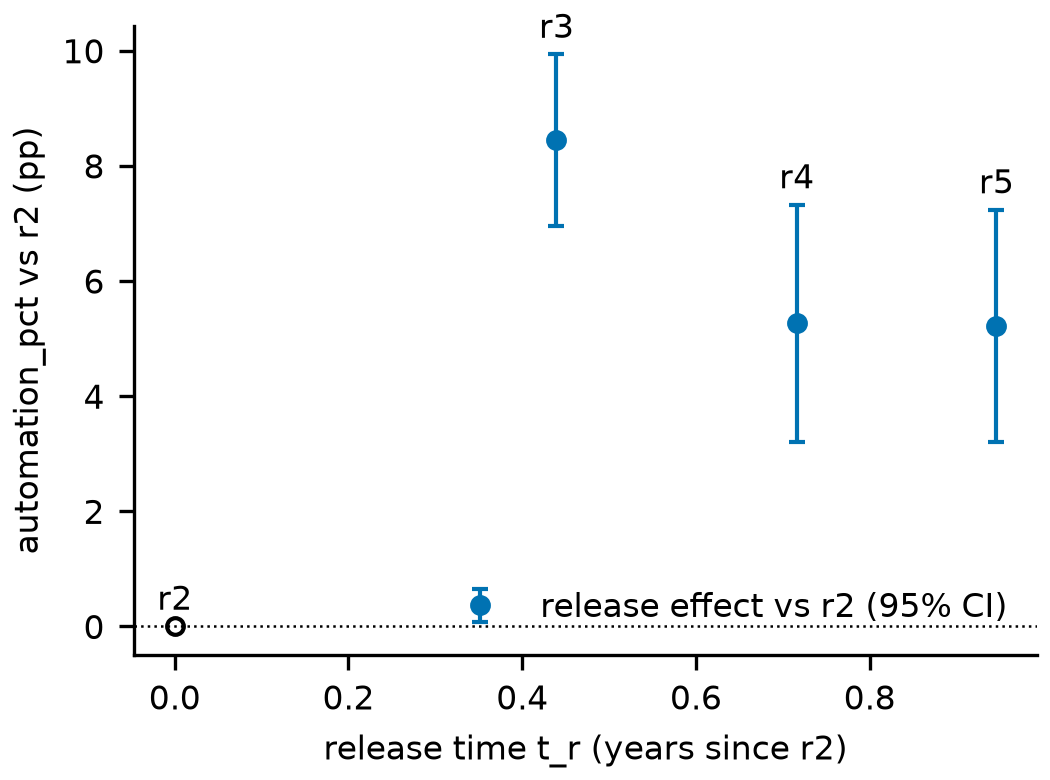
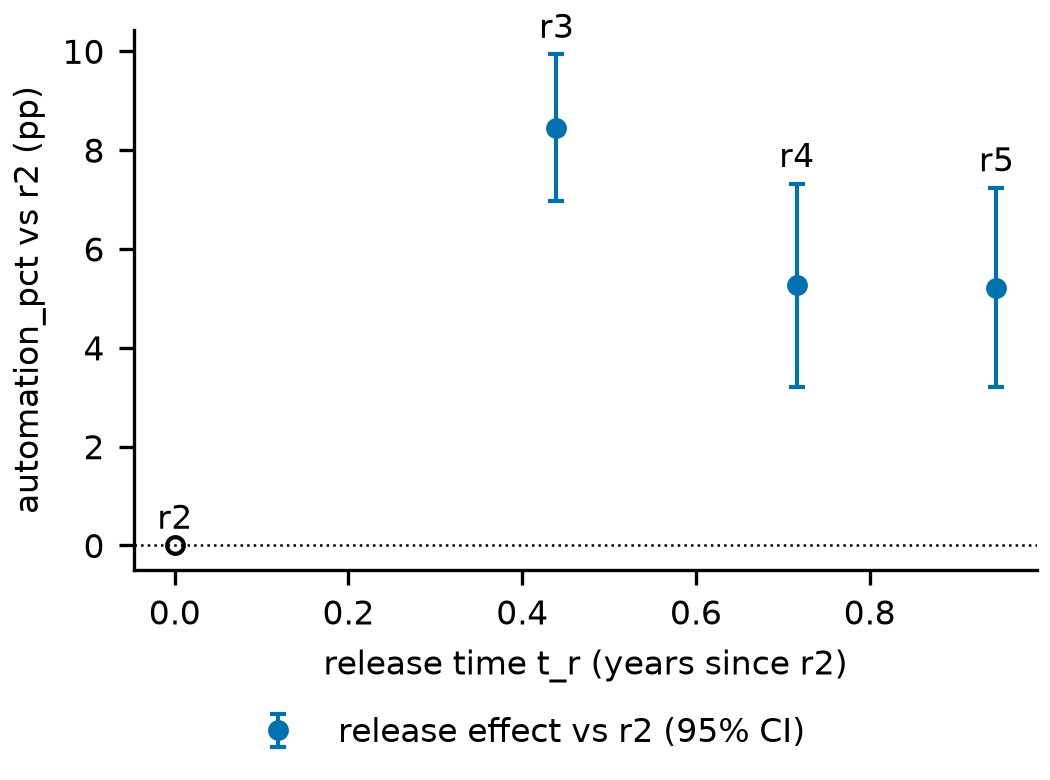
feat(results): every RQ1 coefficient carries its unit; controls carry no decision
A units map keyed by coefficient name (PAP §4 units for H1-H3; per log point and pp per pp for
H4, where the PAP states none) feeds a unit column in confirmatory_table and a Units line per
hypothesis in decisions.md, replacing the hand-typed H2 unit sentence. The H4 mix control's
family p, level and status are blank. The H2 release-effects legend moves below the axis.

diff --git a/src/aideleg/results/rq1.py b/src/aideleg/results/rq1.py
@@ -42,10 +42,26 @@ TABLE_CSV, TABLE_MD = "confirmatory_table.csv", "confirmatory_table.md"
 DECISIONS_MD = "decisions.md"
 FIG_COEFS, FIG_H2 = "fig_rq1_coefficients", "fig_rq1_h2_release_effects"
 H2_STATEMENT = "measured within-task automation rises across releases"
-TABLE_COLUMNS = ("hypothesis", "coefficient", "tested", "estimate", "se", "ci_low", "ci_high",
-                 "p", "df", "p_family", "holm_level", "status", "p13_attenuation")
+TABLE_COLUMNS = ("hypothesis", "coefficient", "tested", "unit", "estimate", "se", "ci_low",
+                 "ci_high", "p", "df", "p_family", "holm_level", "status", "p13_attenuation")
+# the unit of each coefficient's estimate. H1, H2 and H3 are the PAP's own (§4); the PAP states
+# none for H4, so its two log regressors are read per log point and the mix control per pp.
+UNITS = {
+    "human_education_years_mean": "pp of automation per year of education",
+    "log_wage": "pp of automation per log point of wage",
+    "trend": "pp per year",
+    "error_cost": "pp of validation share",
+    "log_aui": "pp of automation per log point",
+    "log_income": "pp of automation per log point",
+    "mix": "pp per pp",
+}
 # the coefficients the P13 attenuation factor sits beside (PAP §4.1)
 _ATTENUATION_LABEL = {("H1", "log_wage"): "β_w", ("H3", "error_cost"): "γ"}
+
+
+def unit_of(name: str) -> str:
+    """The unit of coefficient `name`; a coefficient without a unit is an error, not a blank."""
+    return UNITS[name]
 
 
 def _tested(res: dict, h: str) -> list[str]:
@@ -59,16 +75,20 @@ def table_rows(data: dict) -> pl.DataFrame:
         res, dec = data["results"][h], data["decisions"][h]
         tested = _tested(res, h)
         for c in res["coefs"].values():
+            is_tested = c["name"] in tested
             rows.append({
-                "hypothesis": h, "coefficient": c["name"], "tested": c["name"] in tested,
+                "hypothesis": h, "coefficient": c["name"], "tested": is_tested,
+                "unit": unit_of(c["name"]),
                 "estimate": c["estimate"], "se": c["se"], "ci_low": c["ci_low"],
                 "ci_high": c["ci_high"], "p": c["p"], "df": c["df"],
-                "p_family": res["p_family"], "holm_level": dec["level"],
-                "status": dec["status"],
+                # a control is not tested: its row carries no decision
+                "p_family": res["p_family"] if is_tested else None,
+                "holm_level": dec["level"] if is_tested else None,
+                "status": dec["status"] if is_tested else None,
                 "p13_attenuation": res["diagnostics"].get(f"attenuation_{c['name']}"),
             })
     schema = {"hypothesis": pl.String, "coefficient": pl.String, "tested": pl.Boolean,
-              "estimate": pl.Float64, "se": pl.Float64, "ci_low": pl.Float64,
+              "unit": pl.String, "estimate": pl.Float64, "se": pl.Float64, "ci_low": pl.Float64,
               "ci_high": pl.Float64, "p": pl.Float64, "df": pl.Int64, "p_family": pl.Float64,
               "holm_level": pl.Float64, "status": pl.String, "p13_attenuation": pl.Float64}
     return pl.DataFrame(rows, schema=schema).select(TABLE_COLUMNS)
@@ -80,21 +100,22 @@ def _num(x: float | None) -> str:
     return f"{x:.2e}" if x != 0 and abs(x) < 1e-4 else f"{x:.4f}"
 
 
-def _level(x: float) -> str:
-    return f"{x:g}"
+def _level(x: float | None) -> str:
+    return "—" if x is None else f"{x:g}"
 
 
 def _table_md(df: pl.DataFrame) -> str:
-    head = ("| hypothesis | coefficient | tested | estimate | SE | 95% CI | p | df | family p "
-            "| level | status | P13 attenuation |")
-    out = [head, "|" + "---|" * 12]
+    head = ("| hypothesis | coefficient | tested | unit | estimate | SE | 95% CI | p | df "
+            "| family p | level | status | P13 attenuation |")
+    out = [head, "|" + "---|" * 13]
     for r in df.iter_rows(named=True):
         df_cell = "normal" if r["df"] is None else str(r["df"])
         out.append(
             f"| {r['hypothesis']} | {r['coefficient']} | {'yes' if r['tested'] else 'control'} "
-            f"| {_num(r['estimate'])} | {_num(r['se'])} | [{_num(r['ci_low'])}, "
+            f"| {r['unit']} | {_num(r['estimate'])} | {_num(r['se'])} | [{_num(r['ci_low'])}, "
             f"{_num(r['ci_high'])}] | {_num(r['p'])} | {df_cell} | {_num(r['p_family'])} "
-            f"| {_level(r['holm_level'])} | {r['status']} | {_num(r['p13_attenuation'])} |")
+            f"| {_level(r['holm_level'])} | {r['status'] or '—'} "
+            f"| {_num(r['p13_attenuation'])} |")
     return "\n".join(out)
 
 
@@ -104,8 +125,9 @@ def _table_doc(data: dict, df: pl.DataFrame, path: Path) -> Path:
         "its format (PAP §0.2); there are no stars, and every test is two-sided.",
         "- `family p` is the hypothesis's single p-value (D17); `level` is the level that p was "
         "compared with: the Holm step level for H1, H3 and H4, and the stand-alone α for H2.",
-        "- `status` is the decision of the hypothesis the row belongs to; `control` rows are "
-        "not tested.",
+        "- `status` is the decision of the hypothesis the row belongs to. `control` rows are "
+        "not tested, so their family p, level and status are blank (—).",
+        "- `unit` is the unit of the estimate, its SE and its CI; pp = percentage points.",
         "- `df`: the t reference degrees of freedom; `normal` marks a normal reference.",
         "- P13 attenuation: the between-task share of the regressor's identifying "
         "(within-IWA, FWL-residualised) variation, beside β_w (H1, log_wage) and γ (H3, "
@@ -127,6 +149,7 @@ def _decision_section(data: dict, h: str) -> str:
     res, dec = data["results"][h], data["decisions"][h]
     lines = [dec["text"], "",
              f"- Outcome: `{res['outcome']}`; tested: {', '.join(_tested(res, h))}.",
+             "- Units: " + "; ".join(f"{n}: {unit_of(n)}" for n in res["coefs"]) + ".",
              f"- Status: `{dec['status']}`; its p was compared with level {_level(dec['level'])}."]
     for (hh, coef), label in _ATTENUATION_LABEL.items():
         if hh == h:
@@ -137,9 +160,7 @@ def _decision_section(data: dict, h: str) -> str:
     if h == "H2":
         d = res["diagnostics"]
         lines += [
-            f"- H2 is worded as \"{H2_STATEMENT}\" (D22); β is the change in measured "
-            "within-task automation per year of release time, which includes any change in "
-            "the classifier and in platform scope.",
+            f"- H2 is worded as \"{H2_STATEMENT}\" (D22).",
             f"- Release-level wild bootstrap p = {_num(d['p_wild'])} over {d['n_wild_draws']} "
             "Webb vectors (D22 co-condition).",
             f"- Release-label randomisation p = {_num(d['p_release_label'])} over "
@@ -229,7 +250,7 @@ def fig_h2_release_effects(data: dict):
     ax.axhline(0.0, color=PALETTE[0], linewidth=0.6, linestyle=":")
     ax.set_xlabel("release time t_r (years since r2)")
     ax.set_ylabel(f"{res['outcome']} vs r2 (pp)")
-    ax.legend(frameon=False, loc="lower right")
+    fig.legend(frameon=False, loc="outside lower center")  # below the axis, off the zero line
     return fig
 
 

diff --git a/tests/results/test_rq1_report.py b/tests/results/test_rq1_report.py
@@ -52,9 +52,13 @@ def test_table_numbers_equal_json(json_path, report):
         c = res["coefs"][r["coefficient"]]
         for key in ("estimate", "se", "ci_low", "ci_high", "p"):
             assert float(r[key]) == c[key], (r["coefficient"], key)
-        assert float(r["p_family"]) == res["p_family"]
-        assert float(r["holm_level"]) == data["decisions"][r["hypothesis"]]["level"]
-        assert r["status"] == data["decisions"][r["hypothesis"]]["status"]
+        if r["tested"] == "true":
+            assert float(r["p_family"]) == res["p_family"]
+            assert float(r["holm_level"]) == data["decisions"][r["hypothesis"]]["level"]
+            assert r["status"] == data["decisions"][r["hypothesis"]]["status"]
+        else:  # a control is not tested: no status, level or family p beside it
+            assert (r["p_family"], r["holm_level"], r["status"]) == ("", "", "")
+        assert r["unit"] == rq1.UNITS[r["coefficient"]]
         assert r["df"] == ("" if c["df"] is None else str(c["df"]))
     md = (out / "confirmatory_table.md").read_text(encoding="utf-8")
     assert md.count(data["alpha"]["statement"]) == 1
@@ -111,3 +115,47 @@ def test_figures_written(report):
         for ext in ("pdf", "png"):
             assert (figs / f"{name}.{ext}").is_file()
             assert figs / f"{name}.{ext}" in paths
+
+
+def test_units_and_blank_controls_in_the_markdown(json_path, report):
+    out, _, _ = report
+    assert rq1.UNITS == {
+        "human_education_years_mean": "pp of automation per year of education",
+        "log_wage": "pp of automation per log point of wage",
+        "trend": "pp per year",
+        "error_cost": "pp of validation share",
+        "log_aui": "pp of automation per log point",
+        "log_income": "pp of automation per log point",
+        "mix": "pp per pp",
+    }
+    md = (out / "confirmatory_table.md").read_text(encoding="utf-8")
+    rows = [ln for ln in md.splitlines() if ln.startswith("| H")]
+    for ln in rows:
+        name = ln.split("|")[2].strip()
+        assert f"| {rq1.UNITS[name]} |" in ln
+    mix = next(ln for ln in rows if ln.split("|")[2].strip() == "mix")
+    cells = [c.strip() for c in mix.split("|")]
+    assert "control" in cells and "supported" not in mix and "not_rejected" not in mix
+    dec = (out / "decisions.md").read_text(encoding="utf-8")
+    for name, unit in rq1.UNITS.items():
+        assert f"{name}: {unit}" in dec
+    # the hand-typed unit sentence is gone; the run's own H2 note still carries its wording
+    assert "per year of release time" not in dec
+
+
+def test_unit_missing_raises():
+    with pytest.raises(KeyError):
+        rq1.unit_of("not_a_coefficient")
+
+
+def test_h2_legend_sits_below_the_axes(json_path):
+    data = json.loads(json_path.read_text(encoding="utf-8"))
+    fig = rq1.fig_h2_release_effects(data)
+    fig.canvas.draw()
+    r = fig.canvas.get_renderer()
+    ax = fig.axes[0]
+    legs = fig.legends or [ax.get_legend()]
+    assert len(legs) == 1 and legs[0] is not None
+    assert legs[0].get_window_extent(r).y1 <= ax.get_window_extent(r).y0
+    import matplotlib.pyplot as plt
+    plt.close(fig)

diff --git a/docs/results/rq1/confirmatory_table.md b/docs/results/rq1/confirmatory_table.md
@@ -10,21 +10,22 @@ RQ1's α = 0.05 is split (D22): H2 is tested on its own at α = 0.0125, and {H1,
 
 ## Coefficients
 
-| hypothesis | coefficient | tested | estimate | SE | 95% CI | p | df | family p | level | status | P13 attenuation |
-|---|---|---|---|---|---|---|---|---|---|---|---|
-| H1 | human_education_years_mean | yes | -0.5348 | 0.5849 | [-1.6848, 0.6152] | 0.3611 | 387 | 0.3611 | 0.01875 | not_rejected | — |
-| H1 | log_wage | yes | 4.3952 | 2.1993 | [0.0711, 8.7192] | 0.0464 | 387 | 0.3611 | 0.01875 | not_rejected | 0.9978 |
-| H2 | trend | yes | 4.9792 | 1.1586 | [2.7063, 7.2520] | 1.85e-05 | 1314 | 1.85e-05 | 0.0125 | not_rejected | — |
-| H3 | error_cost | yes | -0.1763 | 0.4689 | [-1.0983, 0.7456] | 0.7071 | 390 | 0.7071 | 0.0375 | not_rejected | 1.0000 |
-| H4 | log_aui | yes | -1.1920 | 0.4041 | [-1.9840, -0.4000] | 0.0032 | normal | 4.83e-24 | 0.0125 | supported | — |
-| H4 | log_income | yes | -0.9208 | 0.3533 | [-1.6133, -0.2283] | 0.0092 | normal | 4.83e-24 | 0.0125 | supported | — |
-| H4 | mix | control | 1.1684 | 0.4210 | [0.3432, 1.9935] | 0.0055 | normal | 4.83e-24 | 0.0125 | supported | — |
+| hypothesis | coefficient | tested | unit | estimate | SE | 95% CI | p | df | family p | level | status | P13 attenuation |
+|---|---|---|---|---|---|---|---|---|---|---|---|---|
+| H1 | human_education_years_mean | yes | pp of automation per year of education | -0.5348 | 0.5849 | [-1.6848, 0.6152] | 0.3611 | 387 | 0.3611 | 0.01875 | not_rejected | — |
+| H1 | log_wage | yes | pp of automation per log point of wage | 4.3952 | 2.1993 | [0.0711, 8.7192] | 0.0464 | 387 | 0.3611 | 0.01875 | not_rejected | 0.9978 |
+| H2 | trend | yes | pp per year | 4.9792 | 1.1586 | [2.7063, 7.2520] | 1.85e-05 | 1314 | 1.85e-05 | 0.0125 | not_rejected | — |
+| H3 | error_cost | yes | pp of validation share | -0.1763 | 0.4689 | [-1.0983, 0.7456] | 0.7071 | 390 | 0.7071 | 0.0375 | not_rejected | 1.0000 |
+| H4 | log_aui | yes | pp of automation per log point | -1.1920 | 0.4041 | [-1.9840, -0.4000] | 0.0032 | normal | 4.83e-24 | 0.0125 | supported | — |
+| H4 | log_income | yes | pp of automation per log point | -0.9208 | 0.3533 | [-1.6133, -0.2283] | 0.0092 | normal | 4.83e-24 | 0.0125 | supported | — |
+| H4 | mix | control | pp per pp | 1.1684 | 0.4210 | [0.3432, 1.9935] | 0.0055 | normal | — | — | — | — |
 
 ## Notes
 
 - One row per coefficient. Rejected and non-rejected hypotheses share this table and its format (PAP §0.2); there are no stars, and every test is two-sided.
 - `family p` is the hypothesis's single p-value (D17); `level` is the level that p was compared with: the Holm step level for H1, H3 and H4, and the stand-alone α for H2.
-- `status` is the decision of the hypothesis the row belongs to; `control` rows are not tested.
+- `status` is the decision of the hypothesis the row belongs to. `control` rows are not tested, so their family p, level and status are blank (—).
+- `unit` is the unit of the estimate, its SE and its CI; pp = percentage points.
 - `df`: the t reference degrees of freedom; `normal` marks a normal reference.
 - P13 attenuation: the between-task share of the regressor's identifying (within-IWA, FWL-residualised) variation, beside β_w (H1, log_wage) and γ (H3, error_cost) (PAP §4.1).
 - Full-precision values: `confirmatory_table.csv`.

diff --git a/docs/results/rq1/decisions.md b/docs/results/rq1/decisions.md
@@ -17,6 +17,7 @@ Each decision text below is copied verbatim from the run's JSON. A hypothesis th
 H1 is not rejected (H0: β_e = 0 or β_w = 0). human_education_years_mean = -0.535 (95% CI [-1.685, 0.615], p = 0.3611); log_wage = 4.395 (95% CI [0.071, 8.719], p = 0.0464)
 
 - Outcome: `automation_pct`; tested: human_education_years_mean, log_wage.
+- Units: human_education_years_mean: pp of automation per year of education; log_wage: pp of automation per log point of wage.
 - Status: `not_rejected`; its p was compared with level 0.01875.
 - β_w (log_wage) = 4.3952, beside its P13 attenuation factor 0.9978 (PAP §4.1).
 
@@ -25,8 +26,9 @@ H1 is not rejected (H0: β_e = 0 or β_w = 0). human_education_years_mean = -0.5
 H2 is not rejected (H0: β = 0). trend = 4.979 (95% CI [2.706, 7.252], p = 0.0000). Not met: release-level wild bootstrap p = 0.9275 > 0.0125.
 
 - Outcome: `automation_pct`; tested: trend.
+- Units: trend: pp per year.
 - Status: `not_rejected`; its p was compared with level 0.0125.
-- H2 is worded as "measured within-task automation rises across releases" (D22); β is the change in measured within-task automation per year of release time, which includes any change in the classifier and in platform scope.
+- H2 is worded as "measured within-task automation rises across releases" (D22).
 - Release-level wild bootstrap p = 0.9275 over 1296 Webb vectors (D22 co-condition).
 - Release-label randomisation p = 0.7083 over 24 orderings (descriptive only).
 
@@ -43,6 +45,7 @@ H2 disclosure notes, as recorded by the run (including the wild-bootstrap granul
 H3 is not rejected (H0: γ = 0). error_cost = -0.176 (95% CI [-1.098, 0.746], p = 0.7071)
 
 - Outcome: `validation_pct`; tested: error_cost.
+- Units: error_cost: pp of validation share.
 - Status: `not_rejected`; its p was compared with level 0.0375.
 - γ (error_cost) = -0.1763, beside its P13 attenuation factor 1.0000 (PAP §4.1).
 
@@ -51,6 +54,7 @@ H3 is not rejected (H0: γ = 0). error_cost = -0.176 (95% CI [-1.098, 0.746], p 
 H4 is supported: Holm over {H1, H3, H4} at family-wise 0.0375 rejects at step 1 (level 0.01250, p = 0.0000). log_aui = -1.192 (95% CI [-1.984, -0.400], p = 0.0032); log_income = -0.921 (95% CI [-1.613, -0.228], p = 0.0092)
 
 - Outcome: `automation_pct`; tested: log_aui, log_income.
+- Units: log_aui: pp of automation per log point; log_income: pp of automation per log point; mix: pp per pp.
 - Status: `supported`; its p was compared with level 0.0125.
 - Joint HC3 Wald F = 91.4545 with (2, 109) df; p = 4.83e-24.
 
